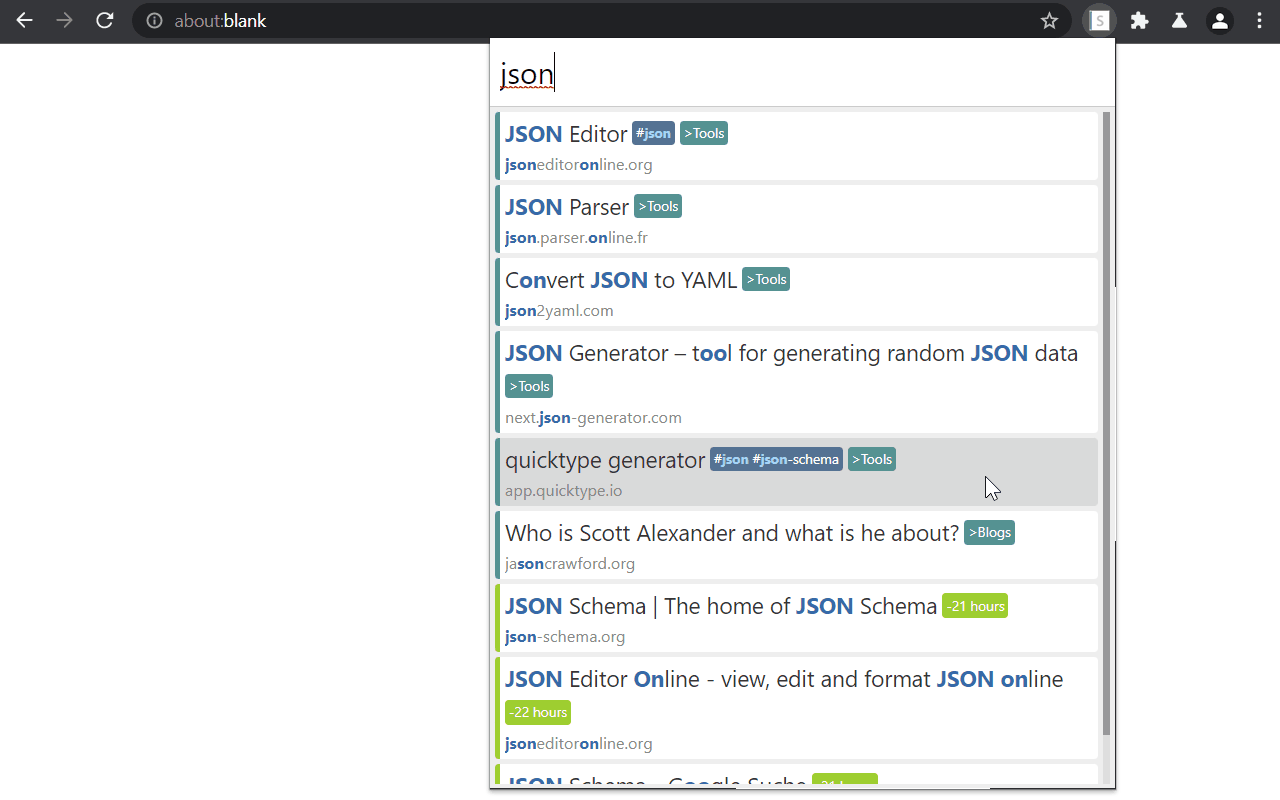
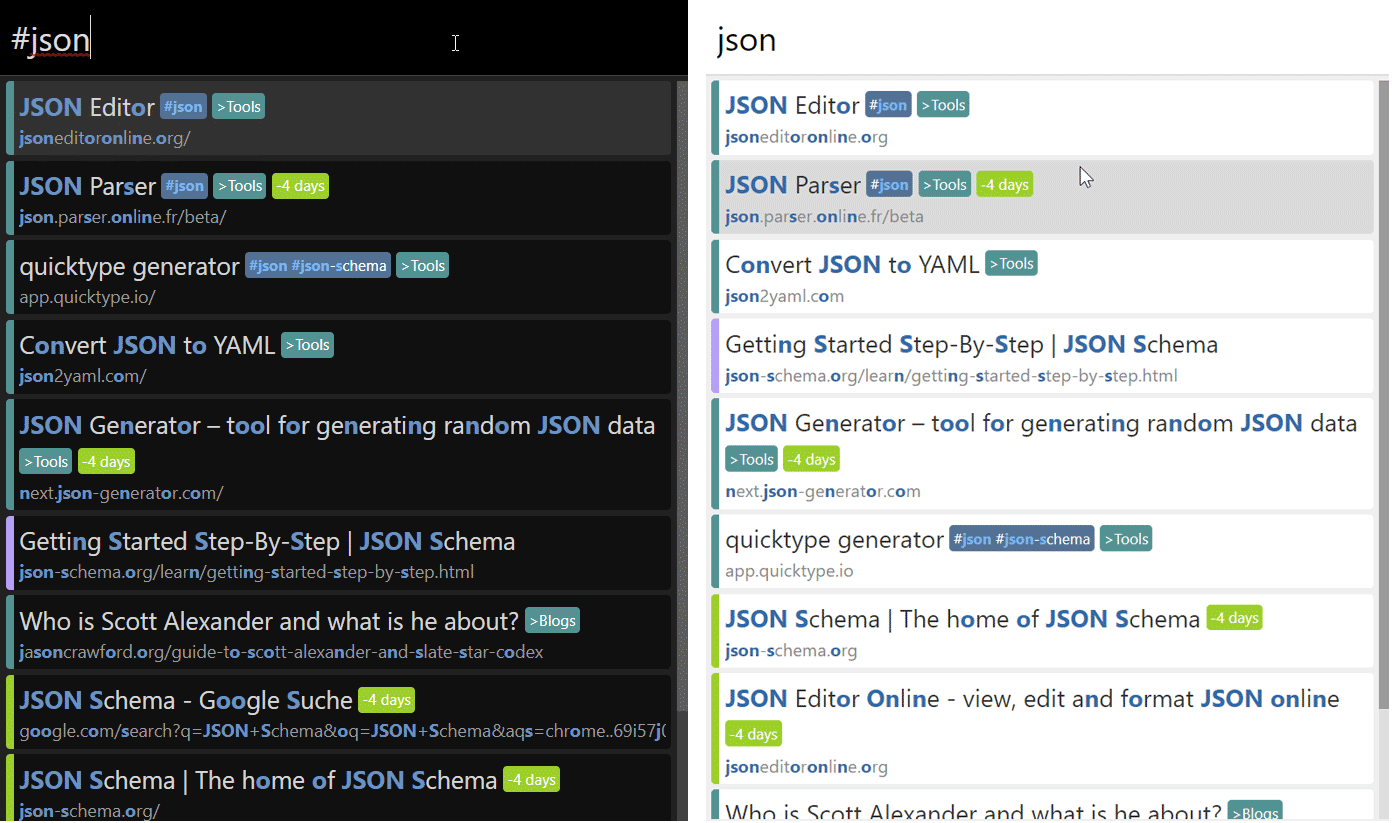
remove trailing slashes from URLs This cleans up the result and improves chances of finding duplicates

diff --git a/popup/popup.js b/popup/popup.js
@@ -419,7 +419,7 @@ function renderResult(result) {
     titleLink.setAttribute('href', resultEntry.originalUrl);
     titleLink.setAttribute('target', '_newtab');
     if (ext.opts.general.highlight) {
-      titleLink.innerHTML = resultEntry.titleHighlighted || resultEntry.title;
+      titleLink.innerHTML = resultEntry.titleHighlighted || resultEntry.title || resultEntry.urlHighlighted || resultEntry.url;
     } else {
       titleLink.innerText = resultEntry.title;
     }
@@ -668,7 +668,7 @@ function convertChromeTabs(chromeTabs) {
       type: 'tab',
       title: entry.title,
       url: cleanUpUrl(entry.url),
-      originalUrl: entry.url,
+      originalUrl: entry.url.replace(/\/$/, ''),
       originalId: entry.id,
       favIconUrl: entry.favIconUrl,
     }
@@ -715,7 +715,7 @@ function convertChromeBookmarks(bookmarks, folderTrail, depth) {
         type: 'bookmark',
         title: title,
         tags: tags,
-        originalUrl: entry.url,
+        originalUrl: entry.url.replace(/\/$/, ''),
         url: cleanUpUrl(entry.url),
         folder: folderText,
         originalId: entry.id,
@@ -739,7 +739,7 @@ function convertChromeHistory(history) {
     result.push({
       type: 'history',
       title: entry.title,
-      originalUrl: entry.url,
+      originalUrl: entry.url.replace(/\/$/, ''),
       url: cleanUpUrl(entry.url),
       visitCount: entry.visitCount,
       lastVisit: ext.opts.general.lastVisit ? timeSince(new Date(entry.lastVisitTime)) : undefined,
@@ -802,8 +802,9 @@ function isInViewport(elem) {
 
 /**
  * Remove http:// or http:// and www from URLs
+ * Remove trailing slashes
  * @see https://stackoverflow.com/a/57698415
  */
 function cleanUpUrl(url) {
-  return url.replace(/^(?:https?:\/\/)?(?:www\.)?/i, "")
+  return url.replace(/^(?:https?:\/\/)?(?:www\.)?/i, '').replace(/\/$/, '')
 }

diff --git a/README.md b/README.md
@@ -13,6 +13,8 @@ For bookmarks, it supports extraction and search of tags and folder names.
 
 ## Demo
 
+![light and dark theme](/images/bookmark-and-history-search.png "light and dark theme")
+
 ![Demo GIF](/images/bookmark-and-history-search.gif "Demo GIF")
 
 ## Installation
